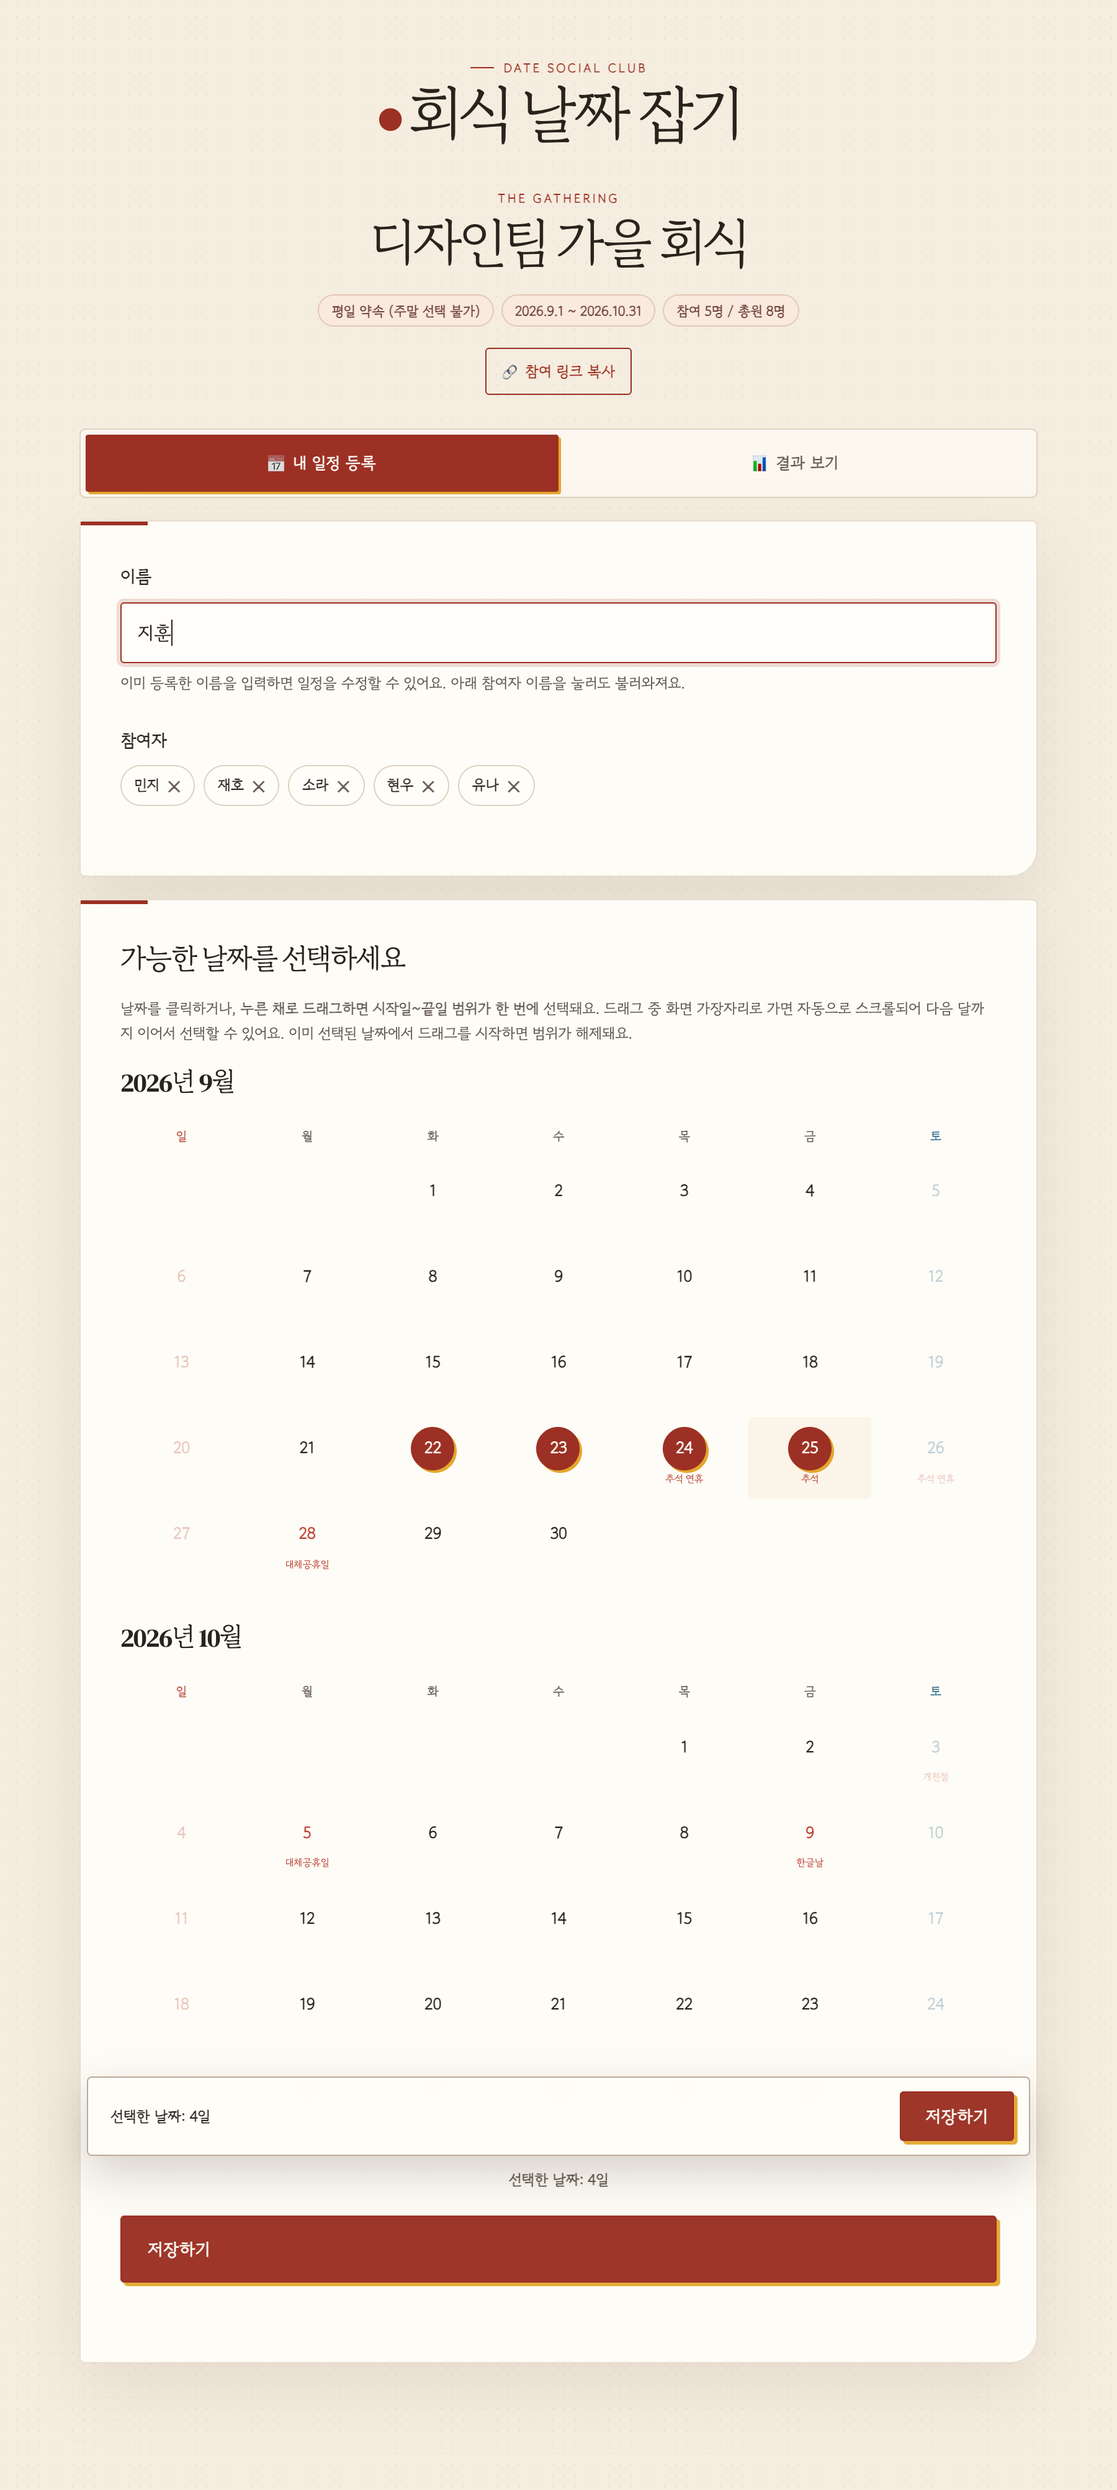
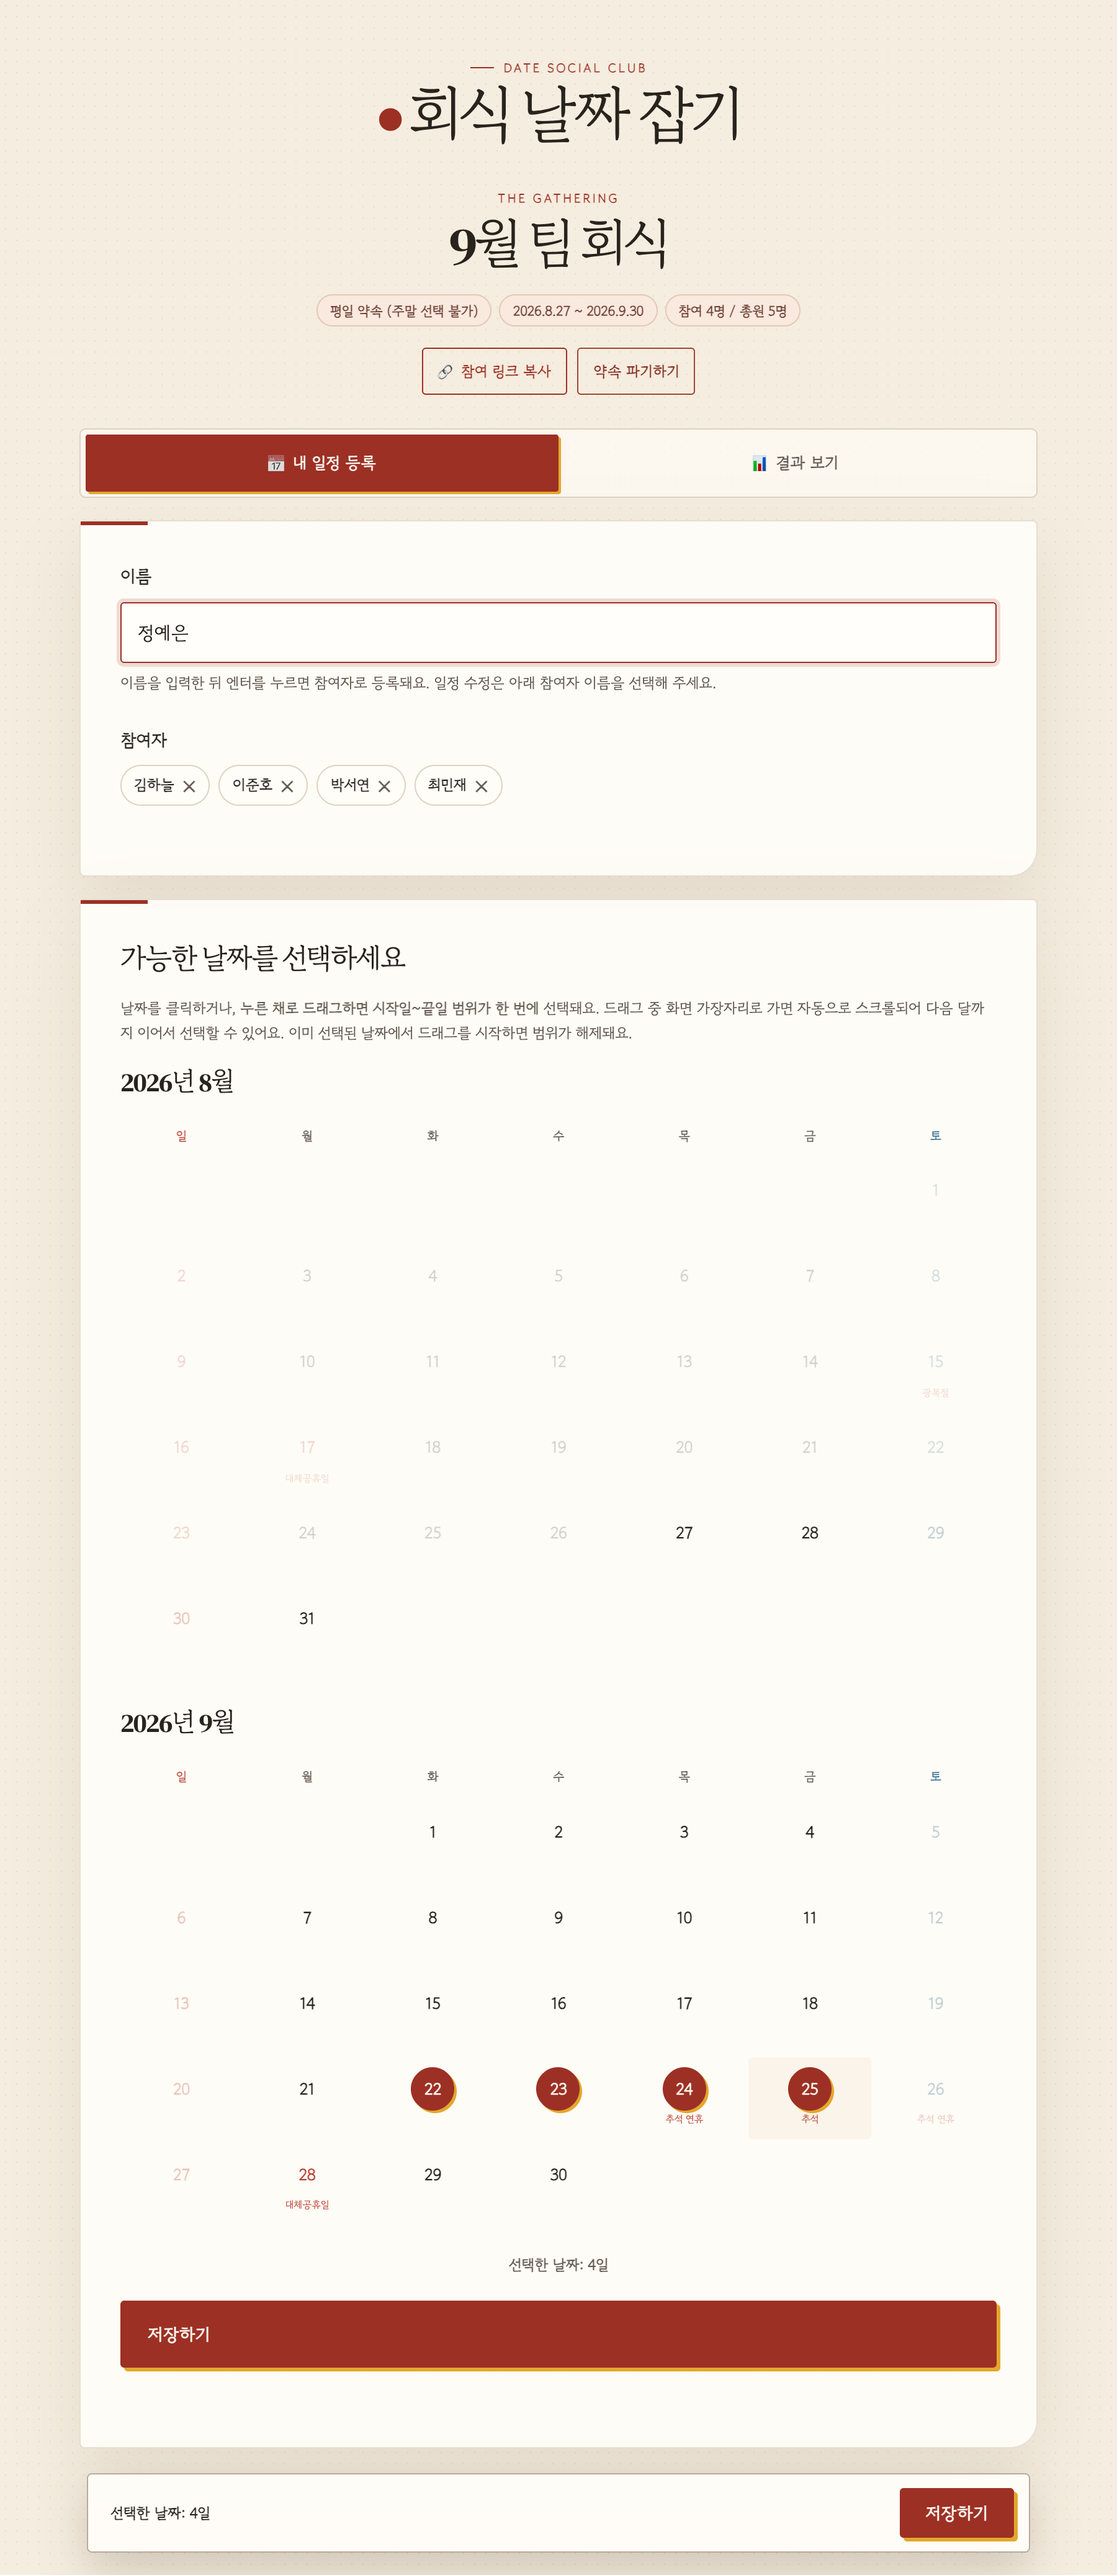
README 화면 캡처 갱신과 캡처 스크립트 추가
관리 비밀번호 / 약속 파기 / 자동 만료 기능이 반영된 화면으로 캡처를 다시 뽑고,
약속 파기 확인 창 캡처(07-cancel-event.png)를 새로 추가했다.

캡처는 scripts/capture-screenshots.mjs로 재생성한다. 임시 포트로 server.js를 띄운 뒤
puppeteer-core와 시스템 Chrome으로 실제 화면을 조작해 촬영하고, 끝나면 캡처용 약속을
지우고 서버도 종료한다. npm run capture로 실행한다.

diff --git a/README.md b/README.md
@@ -25,6 +25,9 @@
 | 회식 날 후보 순위 | 결과 탭 상단에서 가능 인원이 많은 순으로 1~3위 후보를 보여줍니다. 동점 날짜는 같은 순위에 묶어 `1위: 1/1, 1/2` 형식으로 표시합니다. |
 | 참여 정원 관리 | 참여자가 총원에 도달하면 새 이름 입력을 비활성화하고, API도 총원 초과 등록을 거부합니다. |
 | 일정 등록·수정 | 새 이름은 Enter로 먼저 참여 등록할 수 있습니다. 기존 일정은 참여자 칩을 선택해 수정하며, ✕로 삭제할 수 있습니다. |
+| 관리 비밀번호 | 약속을 만들 때 **숫자 4~6자리 관리 비밀번호**를 정합니다. 약속을 파기할 때만 사용하며, 서버에는 약속별 랜덤 salt를 붙인 **SHA-256 해시로만 저장**되고 조회 API 응답에서도 제외됩니다. |
+| 약속 파기 | 약속 페이지의 **약속 파기하기** 버튼으로 약속과 참여자 일정을 모두 삭제합니다. 관리 비밀번호 확인이 필요하고, **5회 틀리면 3분간 파기가 잠깁니다.** |
+| 자동 만료 | 1위 후보 날짜가 지나면 약속이 저장소에서 자동으로 삭제됩니다. 일정이 등록·수정·삭제될 때마다 만료일이 다시 계산됩니다. |
 
 > 원본 서비스의 자주 묻는 질문, footer(개발자 정보/문의 연락처), 점심·저녁 시간 선택 기능은 SPEC에 따라 의도적으로 제외했습니다.
 
@@ -72,6 +75,18 @@ npx wrangler pages deploy public --project-name=team-dinner-maker --branch=main
 
 로컬에서 Pages Functions를 테스트하려면 `npx wrangler pages dev public`을 사용합니다.
 
+### 만료 약속 정리 Worker 배포
+
+Pages Functions는 Cron Trigger를 지원하지 않으므로, 만료된 약속 삭제는 같은 D1을 바인딩한
+별도 Worker(`team-dinner-maker-expiry`)가 처리합니다. Pages와 **따로 한 번 배포**해 두면 됩니다.
+
+```bash
+npx wrangler deploy --config wrangler.expiry.toml   # npm run expiry:deploy
+```
+
+Cron은 UTC 기준이라 `wrangler.expiry.toml`의 `0 15 * * *`가 한국 시간 00:00입니다.
+로컬에서 스케줄 동작을 확인하려면 `npm run expiry:dev`로 띄운 뒤 `/cdn-cgi/handler/scheduled`를 호출하세요.
+
 ---
 
 # 사용 가이드
@@ -87,6 +102,11 @@ npx wrangler pages deploy public --project-name=team-dinner-maker --branch=main
   - **다음달** : 다음 달 1일 ~ 말일
   - **특정 날짜까지** : 오늘 ~ 직접 지정한 날짜 (선택 시 날짜 입력칸이 나타납니다. 최대 1년)
 - **약속 테마** : 평일 약속 / 주말 약속 / 평일+주말 중 선택. 테마에 따라 달력에서 선택할 수 없는 요일이 자동으로 비활성화됩니다.
+- **관리 비밀번호** : 나중에 약속을 파기할 때 필요한 **숫자 4~6자리** 비밀번호입니다. 필수 입력이며, 입력하는 동안 아래 힌트에 형식이 맞는지(`OK` / 안내 문구) 바로 표시됩니다.
+  **잊으면 복구할 수 없으니** 약속을 만든 사람이 따로 보관해 두세요. (약속을 파기할 때만 쓰이고, 참여·결과 보기에는 필요하지 않습니다.)
+
+아래는 총 인원 5명, 관리 비밀번호 4자리, 표시 범위 **특정 날짜까지**(2026-09-30), 테마 **평일 약속**으로 입력한 화면입니다.
+관리 비밀번호는 형식이 맞으면 입력칸 아래에 `OK`가 표시되고, 표시 범위를 "특정 날짜까지"로 고르면 날짜 입력칸이 나타납니다.
 
 ![약속 만들기 화면](images/01-create-event.png)
 
@@ -119,7 +139,7 @@ npx wrangler pages deploy public --project-name=team-dinner-maker --branch=main
   휠 스크롤도 그대로 동작하므로 **달 경계를 넘어 연속된 범위**를 끊김 없이 선택할 수 있습니다.
 - **드래그 해제** : 이미 선택된 날짜에서 드래그를 시작하면 지나간 범위가 한 번에 해제됩니다.
 
-아래는 9/22에서 9/25까지 **드래그로 범위를 미리보는 중**의 화면입니다.
+아래는 2026년 9월 22일에서 25일까지 **드래그로 범위를 미리보는 중**의 화면입니다.
 범위 미리보기가 연한 와인 레드로 표시되고, 테마가 "평일 약속"이라 주말은 흐리게 비활성화되어
 범위에서 자동으로 제외됩니다. 달력 날짜 아래에 공휴일(추석 연휴, 대체공휴일 등)이 표시된 것도 볼 수 있습니다.
 
@@ -137,6 +157,7 @@ npx wrangler pages deploy public --project-name=team-dinner-maker --branch=main
 
 달력이 길어서 저장하기 버튼이 화면 밖에 있을 때는 **하단에 플로팅 저장 바**가 나타나
 스크롤 위치와 상관없이 언제든 저장할 수 있습니다.
+아래 화면처럼 표시 범위가 여러 달에 걸치면 달력이 세로로 이어지고, 범위 밖의 날짜(8/1~8/26)는 흐리게 표시됩니다.
 
 ![플로팅 저장 바](images/06-floating-save.png)
 
@@ -148,7 +169,7 @@ npx wrangler pages deploy public --project-name=team-dinner-maker --branch=main
 **📊 결과 보기** 탭에서 날짜별로 몇 명이 가능한지 확인합니다.
 
 - 탭 바 바로 아래의 **회식 날 후보 순위** 카드에서 가능 인원이 많은 날짜를 1위부터 3위까지 먼저 확인할 수 있습니다.
-  같은 가능 인원수의 날짜는 한 순위로 묶어 `1위: 9/22, 9/23`처럼 표시합니다. 아직 일정이 없으면 빈 상태 안내가 표시됩니다.
+  같은 가능 인원수의 날짜는 한 순위로 묶어 `1위: 9/22, 9/23, 9/24, 9/25`처럼 표시합니다. 아직 일정이 없으면 빈 상태 안내가 표시됩니다.
 - 가능 인원이 있는 날짜는 와인 레드 `#9C3024` 뱃지로 표시되며, **1명이 선택할 때마다 (1/참여자 수)만큼 진해집니다.**
   아래 화면은 참여자 5명 기준으로 1명(연함) ~ 5명(완전히 진함)이 겹친 모습입니다.
 - **가장 많이 겹친 날(공동 1등 포함)은 딥 골드 링과 4방향 골드 스파클**로 강조됩니다. 스파클은 뱃지의 우상단과 좌하단에서 번갈아 재생됩니다. (아래에서 5명이 겹친 9/22~9/25)
@@ -167,6 +188,36 @@ npx wrangler pages deploy public --project-name=team-dinner-maker --branch=main
 공휴일 데이터는 `public/js/holidays.js`에 2025~2027년이 등록되어 있습니다.
 연도가 지나면 같은 형식(`'YYYY-MM-DD': '이름'`)으로 추가해 주세요.
 
+## 6. 약속 파기하기
+
+회식이 취소되거나 잘못 만든 약속을 정리하려면 약속 페이지 상단의 **약속 파기하기** 버튼을 누릅니다.
+
+1. 확인 창이 열리고, 참여자 일정과 결과가 모두 삭제되며 되돌릴 수 없다는 안내가 표시됩니다.
+2. 약속을 만들 때 정한 **관리 비밀번호**(숫자 4~6자리)를 입력합니다.
+3. **약속 파기하기**를 누르면 약속이 삭제되고, 완료 안내 후 첫 화면으로 돌아갑니다.
+
+![약속 파기 확인 창](images/07-cancel-event.png)
+
+주의할 점:
+
+- **되돌릴 수 없습니다.** 약속 자체와 참여자 일정이 저장소에서 완전히 삭제되며, 기존 참여 링크는 "약속을 찾을 수 없습니다" 화면이 됩니다.
+- 참여자 누구나 버튼을 누를 수는 있지만, **관리 비밀번호를 아는 사람만** 실제로 파기할 수 있습니다.
+- **비밀번호를 5회 틀리면 그 약속의 파기 기능이 3분간 잠깁니다.** 잠긴 동안에는 버튼과 입력칸이 비활성화되고 남은 잠금 안내가 표시됩니다. (3분이 지나면 자동으로 해제됩니다.)
+- 관리 비밀번호 기능이 추가되기 전에 만든 약속은 파기할 수 없습니다. (`409` 응답)
+- 참여자 한 명만 빼고 싶을 때는 파기가 아니라 참여자 칩의 **✕** 버튼을 사용하세요.
+
+## 7. 약속 자동 만료
+
+방치된 약속이 계속 쌓이지 않도록, 약속은 **회식 날짜가 지나면 자동으로 삭제**됩니다.
+
+- 만료일은 **1위 후보 날짜의 다음 날**입니다. 공동 1위가 여러 날이면 **가장 늦은 1위 후보의 다음 날**로 잡아, 1위 후보를 모두 지난 뒤에 삭제됩니다.
+- 만료일은 참여자 일정이 **등록·수정·삭제될 때마다 다시 계산**됩니다. 따라서 일정이 늘어나 1위 날짜가 바뀌면 만료일도 함께 따라갑니다.
+- 아직 등록된 일정이 없는 약속은 만료일이 없어(`null`) 삭제 대상이 아닙니다.
+- 실제 삭제는 **매일 한국 시간 자정(00:00)** 에 도는 Cron Worker가 처리합니다. 만료일이 오늘이거나 지난 약속을 D1에서 지웁니다.
+- 만료일은 화면에 표시되지 않는 내부 값이며, 조회 API 응답의 `expireDate`로 확인할 수 있습니다.
+
+> 로컬 `server.js`도 같은 규칙으로 `expireDate`를 계산해 저장하지만, 로컬에는 스케줄러가 없어 자동 삭제는 일어나지 않습니다.
+
 ---
 
 ## 프로젝트 구조
@@ -184,15 +235,39 @@ npx wrangler pages deploy public --project-name=team-dinner-maker --branch=main
 │       └── event.js
 ├── functions/               # Cloudflare Pages Functions (D1 저장)
 │   └── api/events/...
+├── scripts/
+│   └── capture-screenshots.mjs  # README 화면 캡처(images/) 재생성 스크립트
+├── workers/
+│   └── expiry-scheduler.js  # 만료된 약속을 D1에서 지우는 Cron Worker
 ├── server.js                # 로컬 실행용 무의존성 서버 (.data/에 JSON 파일 저장)
-└── wrangler.toml            # Cloudflare Pages 설정 (D1 바인딩: DB)
+├── wrangler.toml            # Cloudflare Pages 설정 (D1 바인딩: DB)
+└── wrangler.expiry.toml     # 만료 정리 Worker 설정 (Cron Trigger: 매일 15:00 UTC)
 ```
+
+## 화면 캡처 갱신
+
+README에 쓰는 `images/*.png`는 스크립트로 다시 뽑을 수 있습니다.
+
+```bash
+npm run capture
+```
+
+임시 포트(기본 8899)로 로컬 서버를 띄우고, `puppeteer-core`와 **시스템에 설치된 Chrome**으로
+실제 화면을 조작해 7개 캡처를 촬영합니다. 끝나면 캡처용으로 만든 약속을 지우고 서버도 종료합니다.
+Chrome 경로를 자동으로 못 찾으면 `CHROME_PATH`로 지정하고, 진행 과정을 눈으로 보려면 `HEADFUL=1`을 붙이세요.
+
+UI를 수정했으면 이 스크립트를 다시 돌려 캡처를 맞춰 주세요.
+시나리오(총원 5명 / 표시 범위 오늘~2026-09-30 / 평일 약속 / 9월 22~25일 전원 겹침)는
+`scripts/capture-screenshots.mjs` 상단 상수에서 바꿀 수 있습니다.
 
 ## API
 
 | 메서드 | 경로 | 설명 |
 | --- | --- | --- |
-| `POST` | `/api/events` | 약속 생성 `{title, totalCount, theme, startDate, endDate}` → `{id}` |
+| `POST` | `/api/events` | 약속 생성 `{title, totalCount, theme, startDate, endDate, managePin}` → `{id}` |
 | `GET` | `/api/events/:id` | 약속 조회 (참여자 포함) |
 | `PUT` | `/api/events/:id/participants` | 참여자 일정 등록/수정 `{name, dates: ["YYYY-MM-DD", ...]}` — 신규 참여자는 총원을 초과하면 `400`으로 거부 |
 | `DELETE` | `/api/events/:id/participants?name=이름` | 참여자 삭제 |
+| `DELETE` | `/api/events/:id` | 약속 파기 `{managePin}` — 비밀번호 불일치 `401`, 5회 초과 잠금 `429`, 관리 비밀번호가 없는 이전 약속 `409` |
+
+`GET`/`PUT`/`DELETE` 응답의 약속 객체에서 `managePinHash`, `managePinSalt`, `deleteAuthFailures`는 항상 제외됩니다.
